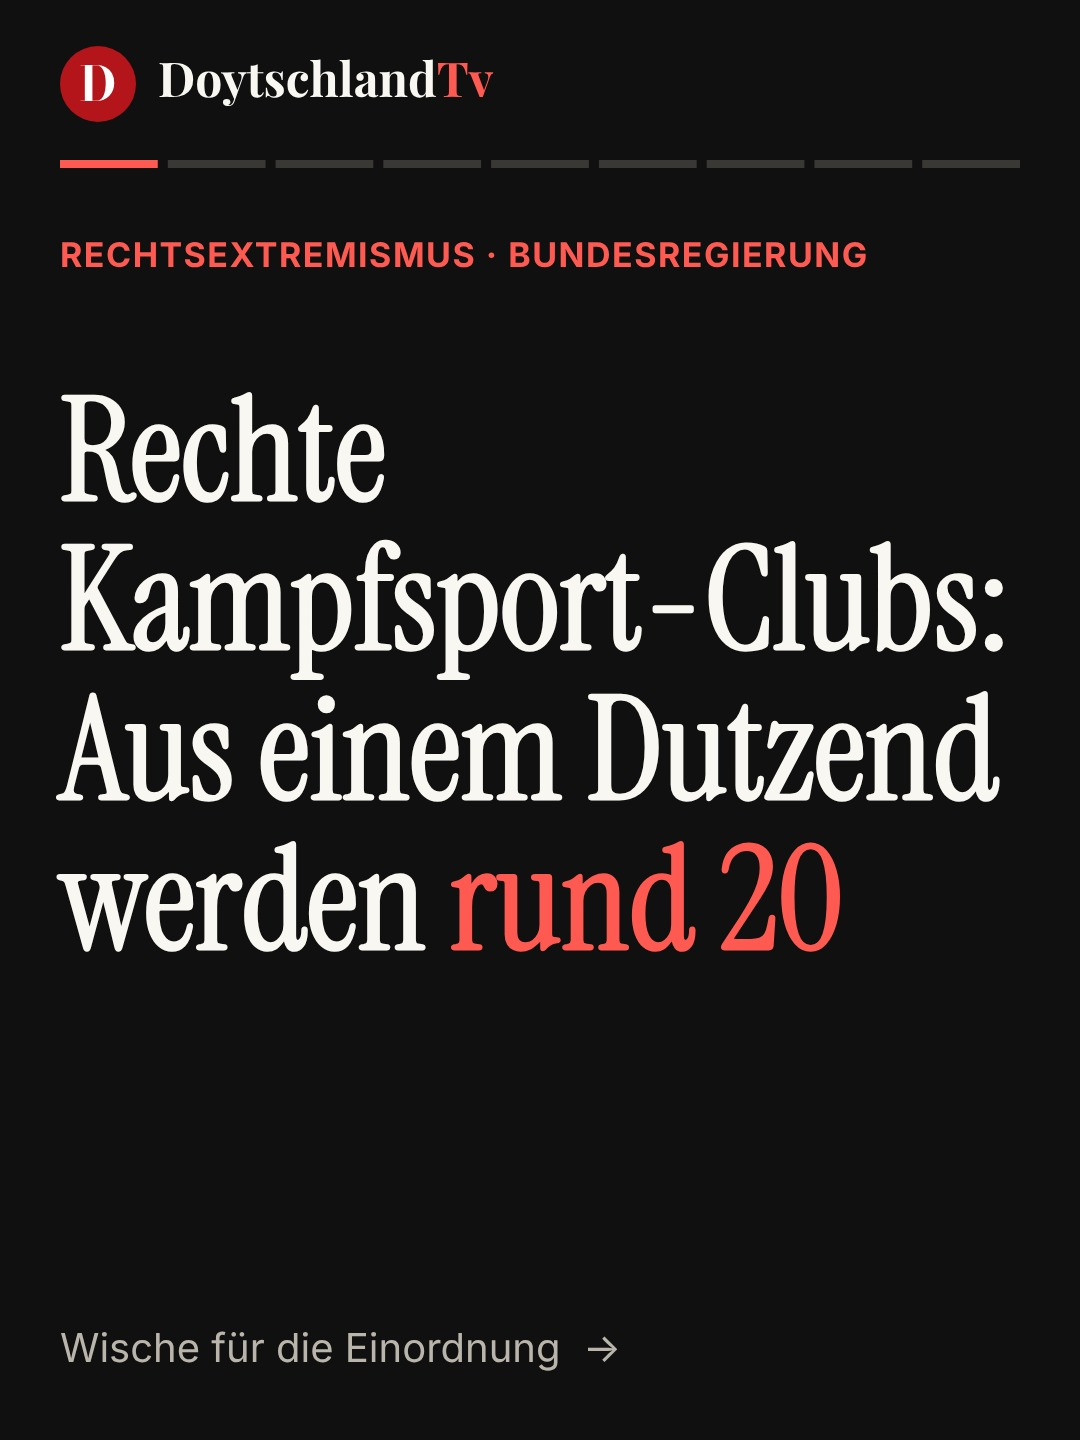
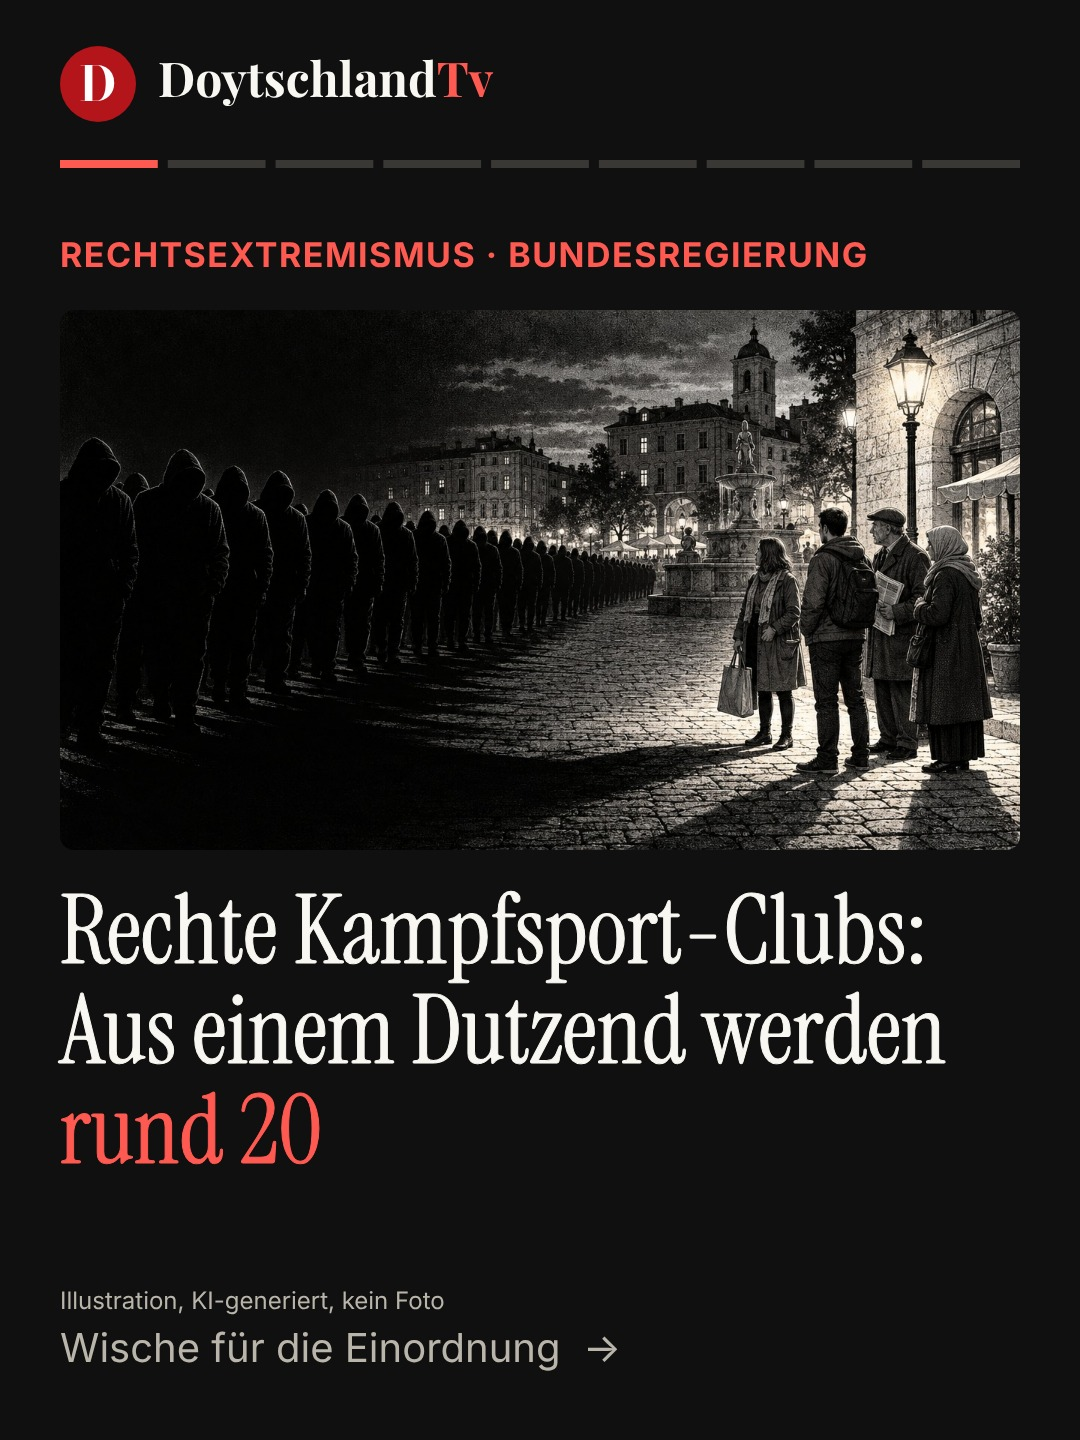
Active Clubs: Titelbild (KI-Illustration) in Karussell und Story
Claude-Session: https://claude.ai/code/session_01HADCkE2LZJHKQCUdz9XwMJ

diff --git a/beitrag/2026-10-22-rechte-kampfsport-clubs-aus-einem-dutzend-werden-rund-20.html b/beitrag/2026-10-22-rechte-kampfsport-clubs-aus-einem-dutzend-werden-rund-20.html
@@ -5,10 +5,10 @@
 <link rel="canonical" href="https://doytschtv.de/beitrag/2026-10-22-rechte-kampfsport-clubs-aus-einem-dutzend-werden-rund-20.html">
 <meta name="robots" content="index,follow,max-image-preview:large">
 <meta property="og:type" content="article"><meta property="og:site_name" content="DoytschlandTv"><meta property="og:locale" content="de_DE">
-<meta property="og:title" content="Rechte Kampfsport-Clubs: Aus einem Dutzend werden rund 20"><meta property="og:description" content="Fitness- und Kampfsportgruppen der extremen Rechten. Die Idee kommt aus den USA. Angeworben werden vor allem junge Männer, zuerst über Gemeinschaft und…"><meta property="og:url" content="https://doytschtv.de/beitrag/2026-10-22-rechte-kampfsport-clubs-aus-einem-dutzend-werden-rund-20.html"><meta property="og:image" content="https://doytschtv.de/og-image.png">
-<meta name="twitter:card" content="summary_large_image"><meta name="twitter:title" content="Rechte Kampfsport-Clubs: Aus einem Dutzend werden rund 20"><meta name="twitter:description" content="Fitness- und Kampfsportgruppen der extremen Rechten. Die Idee kommt aus den USA. Angeworben werden vor allem junge Männer, zuerst über Gemeinschaft und…"><meta name="twitter:image" content="https://doytschtv.de/og-image.png">
+<meta property="og:title" content="Rechte Kampfsport-Clubs: Aus einem Dutzend werden rund 20"><meta property="og:description" content="Fitness- und Kampfsportgruppen der extremen Rechten. Die Idee kommt aus den USA. Angeworben werden vor allem junge Männer, zuerst über Gemeinschaft und…"><meta property="og:url" content="https://doytschtv.de/beitrag/2026-10-22-rechte-kampfsport-clubs-aus-einem-dutzend-werden-rund-20.html"><meta property="og:image" content="https://doytschtv.de/titel-active-clubs.jpg">
+<meta name="twitter:card" content="summary_large_image"><meta name="twitter:title" content="Rechte Kampfsport-Clubs: Aus einem Dutzend werden rund 20"><meta name="twitter:description" content="Fitness- und Kampfsportgruppen der extremen Rechten. Die Idee kommt aus den USA. Angeworben werden vor allem junge Männer, zuerst über Gemeinschaft und…"><meta name="twitter:image" content="https://doytschtv.de/titel-active-clubs.jpg">
 <meta name="theme-color" content="#0b0b10"><link rel="apple-touch-icon" href="/favicon.png">
-<script type="application/ld+json">{"@context": "https://schema.org", "@type": "NewsArticle", "headline": "Rechte Kampfsport-Clubs: Aus einem Dutzend werden rund 20", "description": "Fitness- und Kampfsportgruppen der extremen Rechten. Die Idee kommt aus den USA. Angeworben werden vor allem junge Männer, zuerst über Gemeinschaft und…", "datePublished": "2026-10-22", "dateModified": "2026-10-22", "inLanguage": "de", "mainEntityOfPage": "https://doytschtv.de/beitrag/2026-10-22-rechte-kampfsport-clubs-aus-einem-dutzend-werden-rund-20.html", "image": ["https://doytschtv.de/og-image.png"], "author": {"@type": "Organization", "name": "DoytschlandTv", "url": "https://doytschtv.de/"}, "publisher": {"@type": "Organization", "name": "DoytschlandTv", "logo": {"@type": "ImageObject", "url": "https://doytschtv.de/favicon.png"}}, "articleSection": "Nachrichten", "keywords": ["doytschlandtv", "activeclubs", "rechtsextremismus", "kampfsport", "verfassungsschutz", "demokratie", "einordnung"]}</script>
+<script type="application/ld+json">{"@context": "https://schema.org", "@type": "NewsArticle", "headline": "Rechte Kampfsport-Clubs: Aus einem Dutzend werden rund 20", "description": "Fitness- und Kampfsportgruppen der extremen Rechten. Die Idee kommt aus den USA. Angeworben werden vor allem junge Männer, zuerst über Gemeinschaft und…", "datePublished": "2026-10-22", "dateModified": "2026-10-22", "inLanguage": "de", "mainEntityOfPage": "https://doytschtv.de/beitrag/2026-10-22-rechte-kampfsport-clubs-aus-einem-dutzend-werden-rund-20.html", "image": ["https://doytschtv.de/titel-active-clubs.jpg"], "author": {"@type": "Organization", "name": "DoytschlandTv", "url": "https://doytschtv.de/"}, "publisher": {"@type": "Organization", "name": "DoytschlandTv", "logo": {"@type": "ImageObject", "url": "https://doytschtv.de/favicon.png"}}, "articleSection": "Nachrichten", "keywords": ["doytschlandtv", "activeclubs", "rechtsextremismus", "kampfsport", "verfassungsschutz", "demokratie", "einordnung"]}</script>
 <link rel="stylesheet" href="/fonts.css"><link rel="stylesheet" href="/styles.css"><link rel="stylesheet" href="/briefing.css">
 <style>:root{color-scheme:light}body{margin:0}</style><link rel="icon" type="image/png" href="/favicon.png"></head><body>
-<header class="nav"><div class="wrap"><a class="brand" href="/index.html"><span class="mk" aria-hidden="true">D</span><img class="lg-l" src="/logo.png" alt="DoytschlandTv" width="136" height="25"><img class="lg-d" src="/logo-dark.png" alt="DoytschlandTv" width="136" height="25"></a><ul><li><a href="/briefing.html">Briefing</a></li><li><a href="/nachrichten.html" class=on>Nachrichten</a></li><li><a href="/dossiers.html">Dossiers</a></li><li><a href="/meinungen.html">Meinungen</a></li><li><a href="/erklaert.html">Erklärt</a></li><li><a href="/ueber-uns.html">Über uns</a></li></ul><span class="nav-so"><a href="https://www.instagram.com/doytschlandtv/" target="_blank" rel="noopener" aria-label="DoytschlandTv auf Instagram"><svg viewBox="0 0 24 24" fill="none" stroke="currentColor" stroke-width="2" stroke-linecap="round" aria-hidden="true"><rect x="3" y="3" width="18" height="18" rx="5"/><circle cx="12" cy="12" r="4.2"/><circle cx="17.3" cy="6.7" r=".6" fill="currentColor"/></svg></a><a href="https://www.tiktok.com/@doytschlandtv" target="_blank" rel="noopener" aria-label="DoytschlandTv auf TikTok"><svg viewBox="0 0 24 24" fill="currentColor" aria-hidden="true"><path d="M16.6 5.8A4.3 4.3 0 0 1 15.5 3h-3.1v12.4a2.6 2.6 0 1 1-1.8-2.5V9.7a5.7 5.7 0 1 0 4.9 5.7V9a7.3 7.3 0 0 0 4.3 1.4V7.3a4.3 4.3 0 0 1-3.2-1.5z"/></svg></a></span></div></header><main><div class="wrap"><article class="kol"><p class="b-eyebrow">Nachrichten · Rechtsextremismus · Bundesregierung</p><h1 class="mk-h1">Rechte Kampfsport-Clubs: Aus einem Dutzend werden rund 20</h1><p class="mk-meta">22. Oktober 2026</p><h2>Active Clubs in Deutschland</h2><p><strong>20</strong> Der Bundesregierung sind rund 20 regionale „Active Clubs“ bekannt. Im Juni 2024 war von etwa einem Dutzend die Rede. Gezählt werden Gruppen, nicht Mitglieder: Wie viele Menschen mitmachen, ist öffentlich nicht bekannt.</p><h2>Was sind Active Clubs?</h2><p><strong>Erst Training, dann Ideologie.</strong></p><p>Fitness- und Kampfsportgruppen der extremen Rechten. Die Idee kommt aus den USA. Angeworben werden vor allem junge Männer, zuerst über Gemeinschaft und Training. Die Gruppen sind dezentral und treten oft mit unverfänglichen Namen auf.</p><h2>Was die Bundesregierung sagt</h2><p><strong>Gewaltkompetenz wird professioneller.</strong></p><p>Regelmäßiges Kampfsporttraining und inszenierte Wehrhaftigkeit in martialischen Videos deuten laut Bundesregierung auf eine „Professionalisierung der Gewaltkompetenz“ hin. Konkrete Konfrontationen mit politischen Gegnern sind derzeit nicht zu beobachten.</p><h2>Das Weltbild dahinter</h2><p><strong>Vorbereitung auf einen „Rassenkrieg“.</strong></p><p>Das Bayerische Landesamt für Verfassungsschutz sagt: Die Clubs trainieren Kampfsport, um auf einen angeblich bevorstehenden „Rassenkrieg“ vorbereitet zu sein. Die Szene stützt sich auf Erzählungen vom „Großen Austausch“.</p><h2>Woher kommt die Idee?</h2><p><strong>Der Blick zurück auf die SA.</strong></p><p>Laut dem Counter Extremism Project lobte Gründer Robert Rundo 2023 Goebbels’ Versuch, Berlin mit 600 SA-Männern zu übernehmen. Die SA warb Männer für gezielte politische Gewalt an. Das CEP wertet die Clubs als Aufbau einer verdeckten Miliz. Das ist eine Einschätzung, kein Urteil.</p><h2>Das stärkste Gegenargument</h2><p><strong>Klein, aber auf Tarnung angelegt.</strong></p><p>Rund 20 Gruppen, unbekannte Mitgliederzahl, nach Regierungsangaben keine Straftatenzahl und aktuell keine Konfrontationen. Die Grünen halten dagegen: Dass die Szene unter dem Radar bleiben will, sei der Kern des Konzepts, kein Beleg für Harmlosigkeit.</p><h2>Unsere Meinung</h2><p>Active Clubs sind eine Gefahr für alle, die anders denken, und für die Opposition. Hier werden bewusst Menschen mit gleicher Gesinnung angeworben und gewaltbereit ausgebildet. Das erinnert an die Logik der SA: Gemeinschaft als Vorstufe organisierter Gewalt. Deshalb gilt es hinzusehen, bevor aus Training Gewalt wird.</p><h2>Was meinst du?</h2><p><strong>Wie schützt man junge Leute vor Angeboten, die wie normaler Sport aussehen? Was würdest du Eltern und Vereinen raten?</strong></p><h2>Quellen</h2><ul><li>Bundesregierung laut RND/audimax, 21.10.2026; Bundesregierung, Juni 2024 (taz, 01.07.2024)</li><li>Bundesregierung laut RND/audimax, 21.10.2026; CeMAS, 19.06.2024; CEP, März 2026</li><li>Bundesregierung laut RND/audimax, 21.10.2026</li><li>dts/Süddeutsche Zeitung, 25.07.2026; CEP, März 2026</li><li>CEP, März 2026, S. 9 und 15</li></ul><p><a href="/nachrichten.html">Alle Karussells ansehen ›</a></p><p class="mk-meta">Fakten sind mit Quellen belegt, Meinung ist als „Unsere Meinung“ gekennzeichnet.</p></article></div></main><footer><div class="wrap"><span>© DoytschlandTv</span><span><a href="/impressum.html">Impressum</a> · <a href="/datenschutz.html">Datenschutz</a></span></div></footer></body></html>
+<header class="nav"><div class="wrap"><a class="brand" href="/index.html"><span class="mk" aria-hidden="true">D</span><img class="lg-l" src="/logo.png" alt="DoytschlandTv" width="136" height="25"><img class="lg-d" src="/logo-dark.png" alt="DoytschlandTv" width="136" height="25"></a><ul><li><a href="/briefing.html">Briefing</a></li><li><a href="/nachrichten.html" class=on>Nachrichten</a></li><li><a href="/dossiers.html">Dossiers</a></li><li><a href="/meinungen.html">Meinungen</a></li><li><a href="/erklaert.html">Erklärt</a></li><li><a href="/ueber-uns.html">Über uns</a></li></ul><span class="nav-so"><a href="https://www.instagram.com/doytschlandtv/" target="_blank" rel="noopener" aria-label="DoytschlandTv auf Instagram"><svg viewBox="0 0 24 24" fill="none" stroke="currentColor" stroke-width="2" stroke-linecap="round" aria-hidden="true"><rect x="3" y="3" width="18" height="18" rx="5"/><circle cx="12" cy="12" r="4.2"/><circle cx="17.3" cy="6.7" r=".6" fill="currentColor"/></svg></a><a href="https://www.tiktok.com/@doytschlandtv" target="_blank" rel="noopener" aria-label="DoytschlandTv auf TikTok"><svg viewBox="0 0 24 24" fill="currentColor" aria-hidden="true"><path d="M16.6 5.8A4.3 4.3 0 0 1 15.5 3h-3.1v12.4a2.6 2.6 0 1 1-1.8-2.5V9.7a5.7 5.7 0 1 0 4.9 5.7V9a7.3 7.3 0 0 0 4.3 1.4V7.3a4.3 4.3 0 0 1-3.2-1.5z"/></svg></a></span></div></header><main><div class="wrap"><article class="kol"><p class="b-eyebrow">Nachrichten · Rechtsextremismus · Bundesregierung</p><h1 class="mk-h1">Rechte Kampfsport-Clubs: Aus einem Dutzend werden rund 20</h1><p class="mk-meta">22. Oktober 2026</p><figure style="margin:1rem 0"><img src="/titel-active-clubs.jpg" alt="Rechte Kampfsport-Clubs: Aus einem Dutzend werden rund 20" style="width:100%;height:auto;border-radius:1rem" loading="lazy"><figcaption class="mk-meta">Illustration, KI-generiert, kein Foto</figcaption></figure><h2>Active Clubs in Deutschland</h2><p><strong>20</strong> Der Bundesregierung sind rund 20 regionale „Active Clubs“ bekannt. Im Juni 2024 war von etwa einem Dutzend die Rede. Gezählt werden Gruppen, nicht Mitglieder: Wie viele Menschen mitmachen, ist öffentlich nicht bekannt.</p><h2>Was sind Active Clubs?</h2><p><strong>Erst Training, dann Ideologie.</strong></p><p>Fitness- und Kampfsportgruppen der extremen Rechten. Die Idee kommt aus den USA. Angeworben werden vor allem junge Männer, zuerst über Gemeinschaft und Training. Die Gruppen sind dezentral und treten oft mit unverfänglichen Namen auf.</p><h2>Was die Bundesregierung sagt</h2><p><strong>Gewaltkompetenz wird professioneller.</strong></p><p>Regelmäßiges Kampfsporttraining und inszenierte Wehrhaftigkeit in martialischen Videos deuten laut Bundesregierung auf eine „Professionalisierung der Gewaltkompetenz“ hin. Konkrete Konfrontationen mit politischen Gegnern sind derzeit nicht zu beobachten.</p><h2>Das Weltbild dahinter</h2><p><strong>Vorbereitung auf einen „Rassenkrieg“.</strong></p><p>Das Bayerische Landesamt für Verfassungsschutz sagt: Die Clubs trainieren Kampfsport, um auf einen angeblich bevorstehenden „Rassenkrieg“ vorbereitet zu sein. Die Szene stützt sich auf Erzählungen vom „Großen Austausch“.</p><h2>Woher kommt die Idee?</h2><p><strong>Der Blick zurück auf die SA.</strong></p><p>Laut dem Counter Extremism Project lobte Gründer Robert Rundo 2023 Goebbels’ Versuch, Berlin mit 600 SA-Männern zu übernehmen. Die SA warb Männer für gezielte politische Gewalt an. Das CEP wertet die Clubs als Aufbau einer verdeckten Miliz. Das ist eine Einschätzung, kein Urteil.</p><h2>Das stärkste Gegenargument</h2><p><strong>Klein, aber auf Tarnung angelegt.</strong></p><p>Rund 20 Gruppen, unbekannte Mitgliederzahl, nach Regierungsangaben keine Straftatenzahl und aktuell keine Konfrontationen. Die Grünen halten dagegen: Dass die Szene unter dem Radar bleiben will, sei der Kern des Konzepts, kein Beleg für Harmlosigkeit.</p><h2>Unsere Meinung</h2><p>Active Clubs sind eine Gefahr für alle, die anders denken, und für die Opposition. Hier werden bewusst Menschen mit gleicher Gesinnung angeworben und gewaltbereit ausgebildet. Das erinnert an die Logik der SA: Gemeinschaft als Vorstufe organisierter Gewalt. Deshalb gilt es hinzusehen, bevor aus Training Gewalt wird.</p><h2>Was meinst du?</h2><p><strong>Wie schützt man junge Leute vor Angeboten, die wie normaler Sport aussehen? Was würdest du Eltern und Vereinen raten?</strong></p><h2>Quellen</h2><ul><li>Bundesregierung laut RND/audimax, 21.10.2026; Bundesregierung, Juni 2024 (taz, 01.07.2024)</li><li>Bundesregierung laut RND/audimax, 21.10.2026; CeMAS, 19.06.2024; CEP, März 2026</li><li>Bundesregierung laut RND/audimax, 21.10.2026</li><li>dts/Süddeutsche Zeitung, 25.07.2026; CEP, März 2026</li><li>CEP, März 2026, S. 9 und 15</li></ul><p><a href="/nachrichten.html">Alle Karussells ansehen ›</a></p><p class="mk-meta">Fakten sind mit Quellen belegt, Meinung ist als „Unsere Meinung“ gekennzeichnet.</p></article></div></main><footer><div class="wrap"><span>© DoytschlandTv</span><span><a href="/impressum.html">Impressum</a> · <a href="/datenschutz.html">Datenschutz</a></span></div></footer></body></html>

diff --git a/index.html b/index.html
@@ -64,7 +64,7 @@
         <h2 id="heute-h">Zuletzt im Blick</h2>
         <p id="heute-datum">22. Oktober 2026</p>
       </div>
-      <div class="hc-wrap"><button class="hc-b" id="hc-prev" type="button" aria-label="Zurück">&lsaquo;</button><div class="hc-rail" id="heute-liste" tabindex="0" aria-label="Schlagzeilen, seitlich wischen"><!--heute--><a class="hc" href="nachrichten.html#Rechte%20Kampfsport-Clubs%3A%20Aus%20einem%20Dutzend%20werden%20rund%2020"><span class="hc-t"><span class="k">Nachrichten · Do., 22.10.</span><strong>Rechte Kampfsport-Clubs: Aus einem Dutzend werden rund 20</strong></span></a><a class="hc has-img" href="nachrichten.html#%E2%80%9EUnd%20irgendwann%3A%20Deutsche.%E2%80%9C%20Wie%20viel%20Doytsch%20sind%20wir%3F"><span class="hc-i"><img class="bg" src="titel-merz-gastarbeiter.jpg" alt="" loading="lazy" aria-hidden="true"><img class="fg" src="titel-merz-gastarbeiter.jpg" alt="" loading="lazy"></span><span class="hc-t"><span class="k">Nachrichten · Di., 20.10.</span><strong>„Und irgendwann: Deutsche.“ Wie viel Doytsch sind wir?</strong><small>Archivbild: ZDFheute</small></span></a><a class="hc has-img" href="nachrichten.html#65%20Jahre%20Anwerbeabkommen%3A%20Aus%20zwei%20Jahren%20wurden%20Jahrzehnte"><span class="hc-i"><img class="bg" src="titel-anwerbeabkommen.jpg" alt="" loading="lazy" aria-hidden="true"><img class="fg" src="titel-anwerbeabkommen.jpg" alt="" loading="lazy"></span><span class="hc-t"><span class="k">Nachrichten · Di., 20.10.</span><strong>65 Jahre Anwerbeabkommen: Aus zwei Jahren wurden Jahrzehnte</strong><small>Illustration, KI-generiert, kein Foto</small></span></a><a class="hc has-img" href="nachrichten.html#Pflege%20zu%20Hause%3A%20Bis%202045%20k%C3%B6nnten%20229.000%20Vollzeitstellen%20fehlen"><span class="hc-i"><img class="bg" src="titel-pflege.jpg" alt="" loading="lazy" aria-hidden="true"><img class="fg" src="titel-pflege.jpg" alt="" loading="lazy"></span><span class="hc-t"><span class="k">Nachrichten · Di., 20.10.</span><strong>Pflege zu Hause: Bis 2045 könnten 229.000 Vollzeitstellen fehlen</strong><small>Illustration, KI-generiert, kein Foto</small></span></a><a class="hc has-img" href="nachrichten.html#Bauzinsen%20so%20hoch%20wie%20seit%202009%20nicht%20mehr"><span class="hc-i"><img class="bg" src="titel-bauzinsen.jpg" alt="" loading="lazy" aria-hidden="true"><img class="fg" src="titel-bauzinsen.jpg" alt="" loading="lazy"></span><span class="hc-t"><span class="k">Nachrichten · Di., 20.10.</span><strong>Bauzinsen so hoch wie seit 2009 nicht mehr</strong><small>Illustration, KI-generiert, kein Foto</small></span></a><a class="hc has-img" href="meinungen.html#2026-10-11"><span class="hc-i"><img class="bg" src="kolumne-christ.jpg" alt="" loading="lazy" aria-hidden="true"><img class="fg" src="kolumne-christ.jpg" alt="" loading="lazy"></span><span class="hc-t"><span class="k">Kolumne · Demokratie</span><strong>Selbstauskunft ist keine Kontrolle: Was der Fall Christ über Beratergremien zeigt</strong><small>Illustration, KI-generiert, kein Foto.</small></span></a><a class="hc" href="erklaert.html#schuldenbremse"><span class="hc-t"><span class="k">Erklärt</span><strong>Schuldenbremse und Sondervermögen</strong></span></a><!--/heute--></div><button class="hc-b nx" id="hc-next" type="button" aria-label="Weiter">&rsaquo;</button></div>
+      <div class="hc-wrap"><button class="hc-b" id="hc-prev" type="button" aria-label="Zurück">&lsaquo;</button><div class="hc-rail" id="heute-liste" tabindex="0" aria-label="Schlagzeilen, seitlich wischen"><!--heute--><a class="hc has-img" href="nachrichten.html#Rechte%20Kampfsport-Clubs%3A%20Aus%20einem%20Dutzend%20werden%20rund%2020"><span class="hc-i"><img class="bg" src="titel-active-clubs.jpg" alt="" loading="lazy" aria-hidden="true"><img class="fg" src="titel-active-clubs.jpg" alt="" loading="lazy"></span><span class="hc-t"><span class="k">Nachrichten · Do., 22.10.</span><strong>Rechte Kampfsport-Clubs: Aus einem Dutzend werden rund 20</strong><small>Illustration, KI-generiert, kein Foto</small></span></a><a class="hc has-img" href="nachrichten.html#%E2%80%9EUnd%20irgendwann%3A%20Deutsche.%E2%80%9C%20Wie%20viel%20Doytsch%20sind%20wir%3F"><span class="hc-i"><img class="bg" src="titel-merz-gastarbeiter.jpg" alt="" loading="lazy" aria-hidden="true"><img class="fg" src="titel-merz-gastarbeiter.jpg" alt="" loading="lazy"></span><span class="hc-t"><span class="k">Nachrichten · Di., 20.10.</span><strong>„Und irgendwann: Deutsche.“ Wie viel Doytsch sind wir?</strong><small>Archivbild: ZDFheute</small></span></a><a class="hc has-img" href="nachrichten.html#65%20Jahre%20Anwerbeabkommen%3A%20Aus%20zwei%20Jahren%20wurden%20Jahrzehnte"><span class="hc-i"><img class="bg" src="titel-anwerbeabkommen.jpg" alt="" loading="lazy" aria-hidden="true"><img class="fg" src="titel-anwerbeabkommen.jpg" alt="" loading="lazy"></span><span class="hc-t"><span class="k">Nachrichten · Di., 20.10.</span><strong>65 Jahre Anwerbeabkommen: Aus zwei Jahren wurden Jahrzehnte</strong><small>Illustration, KI-generiert, kein Foto</small></span></a><a class="hc has-img" href="nachrichten.html#Pflege%20zu%20Hause%3A%20Bis%202045%20k%C3%B6nnten%20229.000%20Vollzeitstellen%20fehlen"><span class="hc-i"><img class="bg" src="titel-pflege.jpg" alt="" loading="lazy" aria-hidden="true"><img class="fg" src="titel-pflege.jpg" alt="" loading="lazy"></span><span class="hc-t"><span class="k">Nachrichten · Di., 20.10.</span><strong>Pflege zu Hause: Bis 2045 könnten 229.000 Vollzeitstellen fehlen</strong><small>Illustration, KI-generiert, kein Foto</small></span></a><a class="hc has-img" href="nachrichten.html#Bauzinsen%20so%20hoch%20wie%20seit%202009%20nicht%20mehr"><span class="hc-i"><img class="bg" src="titel-bauzinsen.jpg" alt="" loading="lazy" aria-hidden="true"><img class="fg" src="titel-bauzinsen.jpg" alt="" loading="lazy"></span><span class="hc-t"><span class="k">Nachrichten · Di., 20.10.</span><strong>Bauzinsen so hoch wie seit 2009 nicht mehr</strong><small>Illustration, KI-generiert, kein Foto</small></span></a><a class="hc has-img" href="meinungen.html#2026-10-11"><span class="hc-i"><img class="bg" src="kolumne-christ.jpg" alt="" loading="lazy" aria-hidden="true"><img class="fg" src="kolumne-christ.jpg" alt="" loading="lazy"></span><span class="hc-t"><span class="k">Kolumne · Demokratie</span><strong>Selbstauskunft ist keine Kontrolle: Was der Fall Christ über Beratergremien zeigt</strong><small>Illustration, KI-generiert, kein Foto.</small></span></a><a class="hc" href="erklaert.html#schuldenbremse"><span class="hc-t"><span class="k">Erklärt</span><strong>Schuldenbremse und Sondervermögen</strong></span></a><!--/heute--></div><button class="hc-b nx" id="hc-next" type="button" aria-label="Weiter">&rsaquo;</button></div>
     </div>
   </section>
 

diff --git a/briefings.js b/briefings.js
@@ -14,7 +14,12 @@ window.BRIEFINGS = [
       "typ": "hook",
       "kicker": "Rechtsextremismus · Bundesregierung",
       "titel": "Rechte Kampfsport-Clubs: Aus einem Dutzend werden rund 20",
-      "rot": "rund 20"
+      "rot": "rund 20",
+      "bild": {
+       "url": "titel-active-clubs.jpg",
+       "fokus": 0.5,
+       "unter": "Illustration, KI-generiert, kein Foto"
+      }
      },
      {
       "typ": "zahl",
@@ -79,7 +84,12 @@ window.BRIEFINGS = [
     "rot": "rund 20",
     "text": "Aus einem Dutzend (2024) wurden rund 20. Karussell: Link in der Bio.",
     "quelle": "Bundesregierung laut RND/audimax, 21.10.2026; 22.10.2026",
-    "theme": "dark"
+    "theme": "dark",
+    "bild": {
+     "url": "titel-active-clubs.jpg",
+     "fokus": 0.5,
+     "unter": "Illustration, KI-generiert, kein Foto"
+    }
    }
   ]
  },
